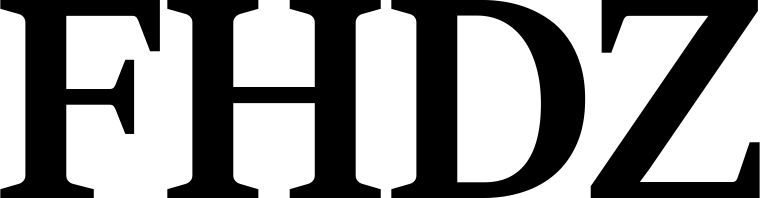
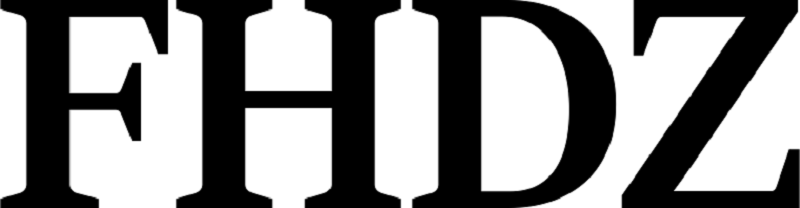
v 0.2.2

diff --git a/style.css b/style.css
@@ -12,22 +12,32 @@ body {
 	background-position: top center; */
 }
 
+#container {
+	align-items: center;
+	display:flex;
+	flex-direction:column;
+	height: 300%;
+}
+
 header {
 	position:fixed;
-	width:50%;
-	margin-left: 25%;
-	margin-right: 25%;
+	width:800px;
+/* 	margin-left: 25%;
+	margin-right: 25%; */
 	margin-top:20px;
+	margin-left: auto;
+	margin-right: auto;
 }
 
 .resizeable {
 }
 
 section {
-	width: 50%;
+	width: 800px;
 	height: 100%;
-	margin-left: 25%;
-	margin-right: 25%;
+	margin: 0 auto;
+/* 	margin-left: 25%;
+	margin-right: 25%; */
 	float: left;
 }
 

diff --git a/index.html b/index.html
@@ -6,6 +6,7 @@
 		<link rel="stylesheet" href="style.css">
 	</head>
 	<body>
+	<div id="container">
 		<header>
 			<img src="header.png" class="resizeable">
 		</header>
@@ -40,5 +41,6 @@
 				<input type="hidden" name="_next" value="index.html">
 			</form>
 		</section>
+	</div>
 	</body>
 </html>
